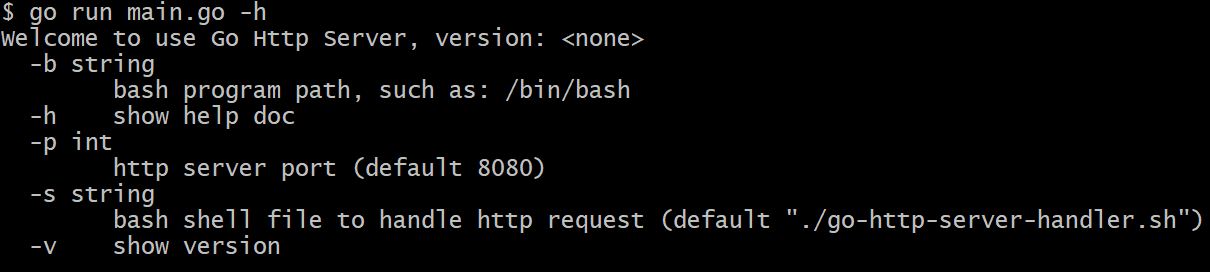
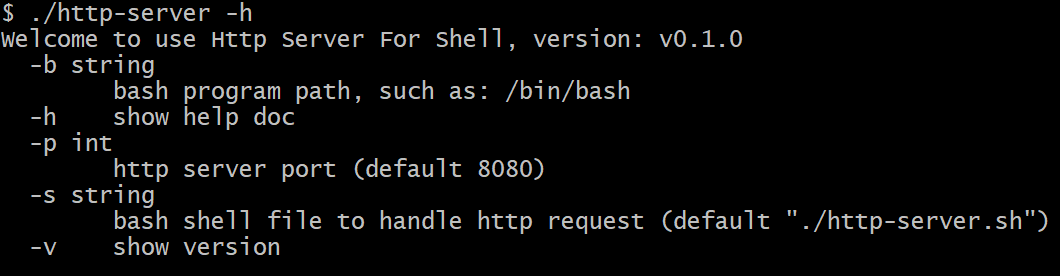
update

diff --git a/README.md b/README.md
@@ -2,7 +2,8 @@
 
 Simple Http Server for Shell Script is an HTTP server based on bash shell scripts.
 
-It is very suitable for quickly developing an HTTP service demo for those who are familiar with and passionate about bash shell.
+It is very suitable for quickly developing an HTTP service demo for those who are familiar with and passionate about
+bash shell.
 
 Shell script demo: [http-server.sh](http-server.sh)
 
@@ -15,17 +16,20 @@ On Windows, it used `C:/Program Files/Git/bin/bash.exe`, on Linux/macOS, it used
 ![](img/01-help-doc.png)
 
 ```shell
-# show version
-go run main.go -v
-
 # show help doc
-go run main.go -h
+./http-server -h
+
+# show version
+./http-server -v
 
 # run server
-go run main.go
+./http-server
 
 # use another port
-go run main.go -p 80
+./http-server -p 80
+
+# use another shell
+./http-server -s "/path/to/bash"
 
 ```
 
